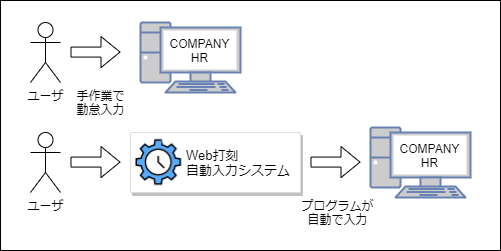
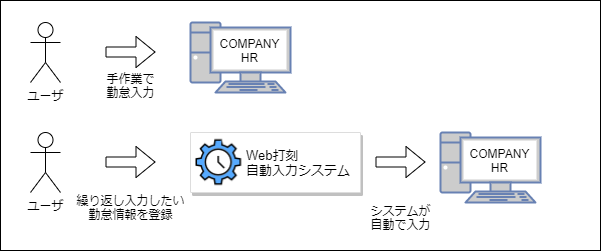
Update Document

diff --git a/doc/01.要件定義書.md b/doc/01.要件定義書.md
@@ -1,6 +1,6 @@
 # 要件定義書
 
-本ドキュメントは、「Web打刻自動入力システム」について要件定義を行う。
+本ドキュメントは、「Web打刻自動入力システム」についての要件定義を行う。
 
 ## 目次
 
@@ -29,7 +29,7 @@
 
 ## 2. Web打刻自動入力システムの概要
 
-本システム「Web打刻自動入力システム」は、弊社社員が日々実施する「勤怠入力作業」をスクリプトよって自動化するシステムである。  
+本システム「Web打刻自動入力システム」は、弊社社員が日々実施する「勤怠入力作業」を自動化するシステムである。  
 
 ![image](./drawio/Web打刻自動入力システム概要図.png)
 
@@ -37,16 +37,16 @@
 
 ### 3-1. 動作環境
 
-デスクトップ版Google Chromeバージョン84以降が動作するすべてのOSで動作する　　
+デスクトップ版GoogleChromeバージョン84以降が動作するすべてのOSで動作する　　
 
-デスクトップ版Google Chromeの入手先を下記に示す。
+デスクトップ版GoogleChromeの入手先を下記に示す。
 
 > https://www.google.com/chrome/
 
 ### 3-2. GoogleChrome拡張コンポーネント
 
-「COMPANYHRの勤怠入力画面」へ自動的に値を入力するにあたって、本システムにWebページへのアクセス権が必要となる。  
-そのため、本システムはGoogleChromeの拡張コンポーネントを使用し、「GoogleChromeの拡張機能」として実装する。  
+「勤務実績入力画面」へ自動的に値を入力するにあたって、本システムにWebページへのアクセス権が必要となる。  
+そのため、本システムはGoogleChromeの拡張コンポーネントを使用し「GoogleChromeの拡張機能」として実装する。  
 
 GoogleChromeの拡張コンポーネントや機能については、下記の公式ドキュメントを参照する。  
 
@@ -87,7 +87,7 @@ SPECTRE.CSSの入手先や、取り扱いについては下記の公式ドキュ
 現状の課題として、毎日同じ勤怠情報を入力する場合、同じ情報を繰り返し入力する必要があり、  
 その都度同じ内容のマウス操作やキーボード操作が発生する。  
 
-たとえば、休憩時間が「45分」の現場の場合「COMPANYHRの勤怠入力画面」では、デフォルトの休憩時間が「1時間」と設定されているため、  
+たとえば、休憩時間が「45分」の現場の場合「勤務実績入力画面」では、デフォルトの休憩時間が「1時間」と設定されているため、  
 勤怠を入力するたびに「通常休憩時間」の修正チェックボックスにチェックを付け「45分」と入力する作業が発生する。
 
 勤怠入力の度に、同じ入力を実施しなければならないのは非効率であり、さらに「入力忘れ・誤入力」といった問題を引き起こす可能性がある。
@@ -97,12 +97,12 @@ SPECTRE.CSSの入手先や、取り扱いについては下記の公式ドキュ
 本システムを開発することにより、上記問題の解決を図る。  
 
 具体的な方法としては、あらかじめ「繰り返し入力が必要な値」をユーザが本システムに設定し、  
-「COMPANYHRの勤怠入力画面」を開いた際に本システムが設定しておいた値を自動で入力する。
+「勤務実績入力画面」を開いた際に本システムが設定しておいた値を自動で入力する。
 
 このことにより、ユーザは「勤怠情報を入力する作業」を省略することが可能になり、「次へ」ボタンと「入力完了」ボタンを押下するだけで勤怠入力が完了する。
 
 以上のことから、Web打刻自動入力システムを使用することにより問題の解決および、  
-「勤怠入力の効率化」、「入力忘れ・誤入力の防止」といった効果が期待できる。
+「勤怠入力作業の効率化」、「入力忘れ・誤入力の防止」といった効果が期待できる。
 
 ## 8. Web打刻自動入力システム導入後の業務フロー
 
@@ -111,20 +111,22 @@ SPECTRE.CSSの入手先や、取り扱いについては下記の公式ドキュ
 ## 9. Web打刻自動入力システムで実現しないこと
 
 - GoogleChromeの拡張機能が動作するブラウザ以外での動作
-- 「COMPANYHRの勤怠入力画面」「次へ」ボタンの自動押下 
+- 「勤務実績入力画面」→ 次へボタンの自動押下 
   - 誤入力防止のため
 
-- 「COMPANYHRの勤怠入力画面」「入力完了」ボタンの自動押下
+- 「勤務実績入力画面」→ 入力完了ボタンの自動押下
   - 誤入力防止のため
-- 「COMPANYHRの勤怠入力画面」「休暇実績情報」の自動入力
+- 「勤務実績入力画面」→ 休暇実績情報の自動入力
   - 頻繁に入力する項目ではないため
 
 ## 10. 用語集
 
-|用語|説明|
-|:---|:---|
-|「Web打刻自動入力システム」|
-|COMPANYHRの勤怠入力画面||
-|「次へ」ボタン|
-|「入力完了」ボタン|
-|「詳細」ボタン」|
+| 用語                    | 説明 |
+|:------------------------|:-----|
+| Web打刻自動入力システム |本システムの名称|
+| GoogleChrome            |インターネットブラウザ|
+| 勤務実績入力画面        |弊社の社員が勤怠情報を入力するページ<br>https://ghr.unify.persol-group.co.jp/cws/srwtimerec からアクセス可能<br>![image](img/CompanyHR勤怠情報入力画面.png)|
+|詳細ボタン         |「勤務実績入力画面」画面左部に表示されるボタン ![image](img/詳細ボタン.png)|
+| 勤務実績入力詳細画面    | 勤務実績入力画面の「詳細」ボタンを押下した後に開く画面 <br> ![image](img/勤務実績入力詳細画面.png)
+|次へボタン           |勤務実績入力詳細画面の上部に表示されるボタン ![image](img/次へボタン.png)|
+|入力完了ボタン       |勤務実績入力詳細画面の上部に表示されるボタン ![image](img/入力完了ボタン.png)||
